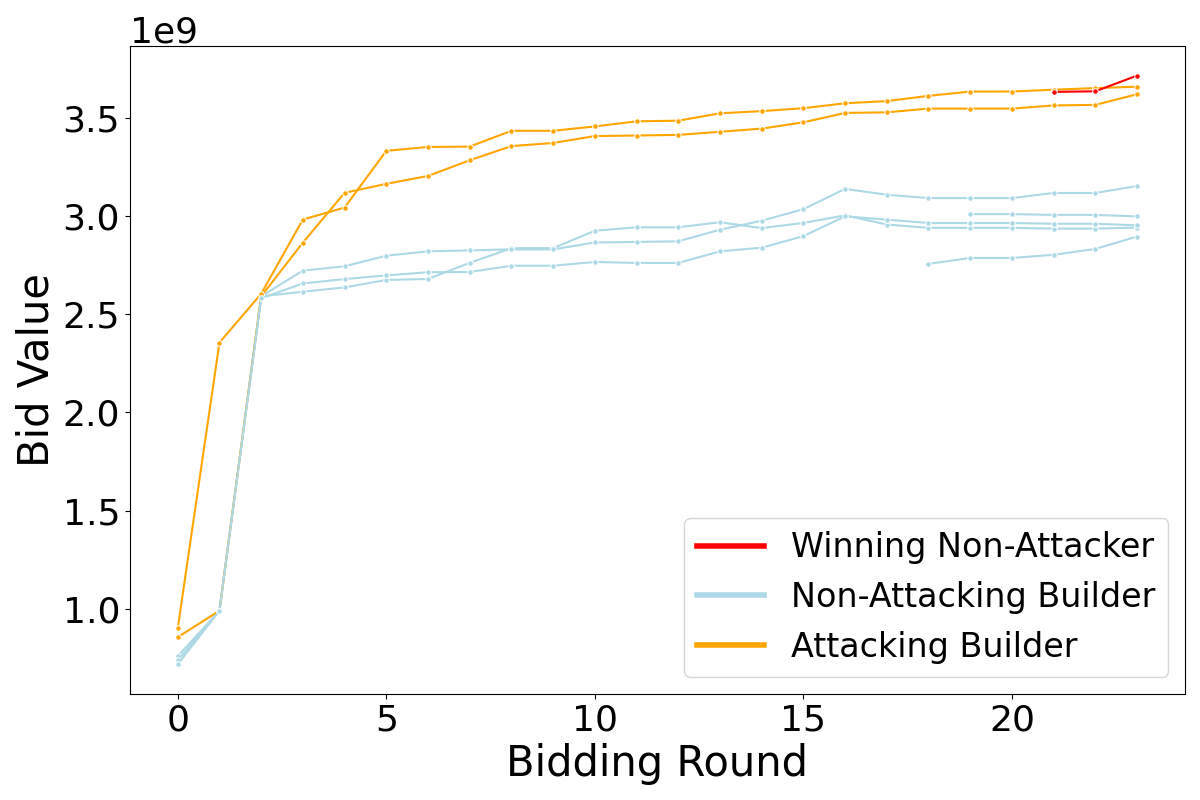
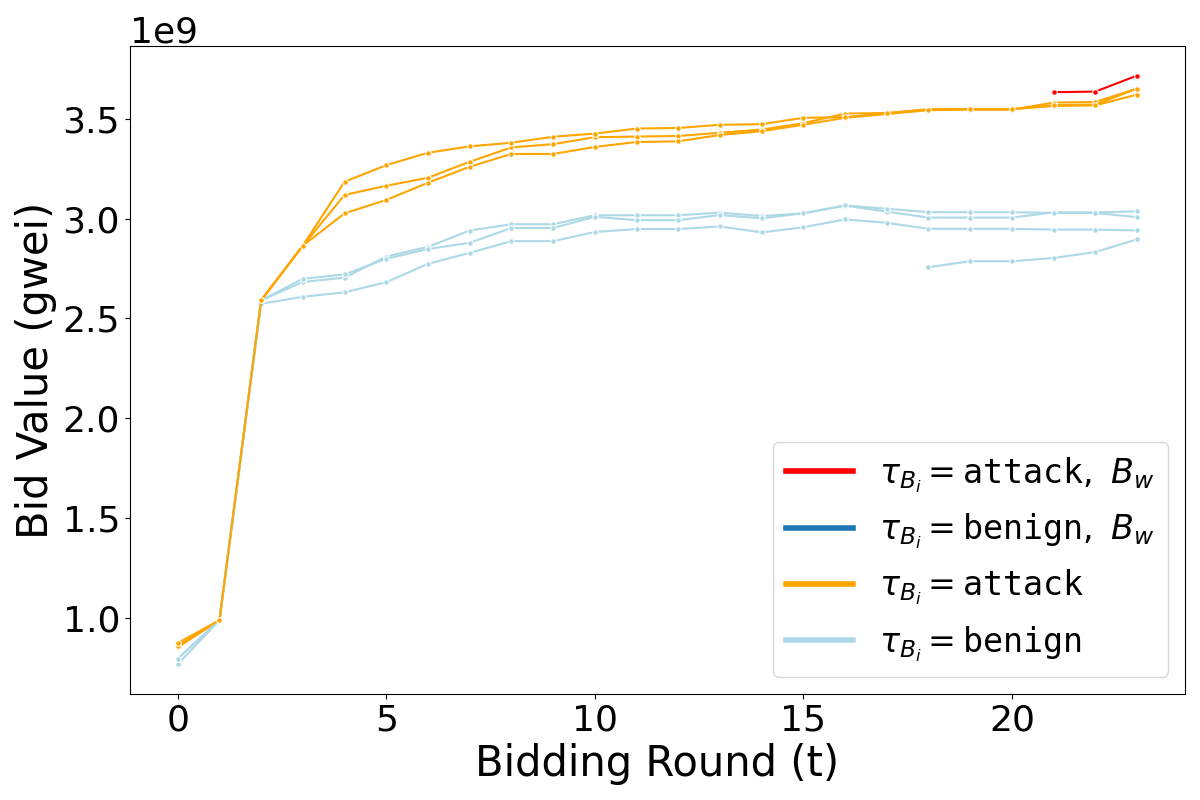
updated plot

diff --git a/plots/ss/bidding_dynamic.py b/plots/ss/bidding_dynamic.py
@@ -68,15 +68,16 @@ def plot_bid_dynamics(file_path, block_number):
 
     # Add a legend explanation for colors
     legend_labels = {
-        "Winning Attacker" if is_winning_attacker else "Winning Non-Attacker": "red",
-        "Non-Attacking Builder": "lightblue",
-        "Attacking Builder": "orange"
+        r"$\tau_{B_i} = \mathtt{attack},\ B_w$": "red" if not is_winning_attacker else None,
+        r"$\tau_{B_i} = \mathtt{benign},\ B_w$": "red" if is_winning_attacker else None,
+        r"$\tau_{B_i} = \mathtt{attack}$": "orange",
+        r"$\tau_{B_i} = \mathtt{benign}$": "lightblue"
     }
     legend_handles = [plt.Line2D([0], [0], color=color, lw=4, label=label) for label, color in legend_labels.items()]
     plt.legend(handles=legend_handles, loc="lower right", fontsize=24)
 
-    plt.xlabel('Bidding Round', fontsize=30)
-    plt.ylabel('Bid Value', fontsize=30)
+    plt.xlabel('Bidding Round (t)', fontsize=30)
+    plt.ylabel('Bid Value (gwei)', fontsize=30)
     plt.tick_params(axis='both', which='major', labelsize=26)
     plt.gca().yaxis.get_offset_text().set_fontsize(26)
     plt.tight_layout()
@@ -187,15 +188,16 @@ def plot_block_value_dynamics(file_path, block_number):
 
     # Add a legend explanation for colors
     legend_labels = {
-        "Winning Attacker" if is_winning_attacker else "Winning Non-Attacker": "red",
-        "Non-Attacking Builder": "lightblue",
-        "Attacking Builder": "orange"
+        r"$\tau_{B_i} = \mathtt{attack},\ B_w$": "red" if not is_winning_attacker else None,
+        r"$\tau_{B_i} = \mathtt{benign},\ B_w$": "red" if is_winning_attacker else None,
+        r"$\tau_{B_i} = \mathtt{attack}$": "orange",
+        r"$\tau_{B_i} = \mathtt{benign}$": "lightblue"
     }
     legend_handles = [plt.Line2D([0], [0], color=color, lw=4, label=label) for label, color in legend_labels.items()]
     plt.legend(handles=legend_handles, loc="lower right", fontsize=24)
 
-    plt.xlabel('Bidding Round', fontsize=30)
-    plt.ylabel('Block Value', fontsize=30)
+    plt.xlabel('Bidding Round (t)', fontsize=30)
+    plt.ylabel('Block Value (gwei)', fontsize=30)
     plt.tick_params(axis='both', which='major', labelsize=26)
     plt.gca().yaxis.get_offset_text().set_fontsize(26)
     plt.tight_layout()
